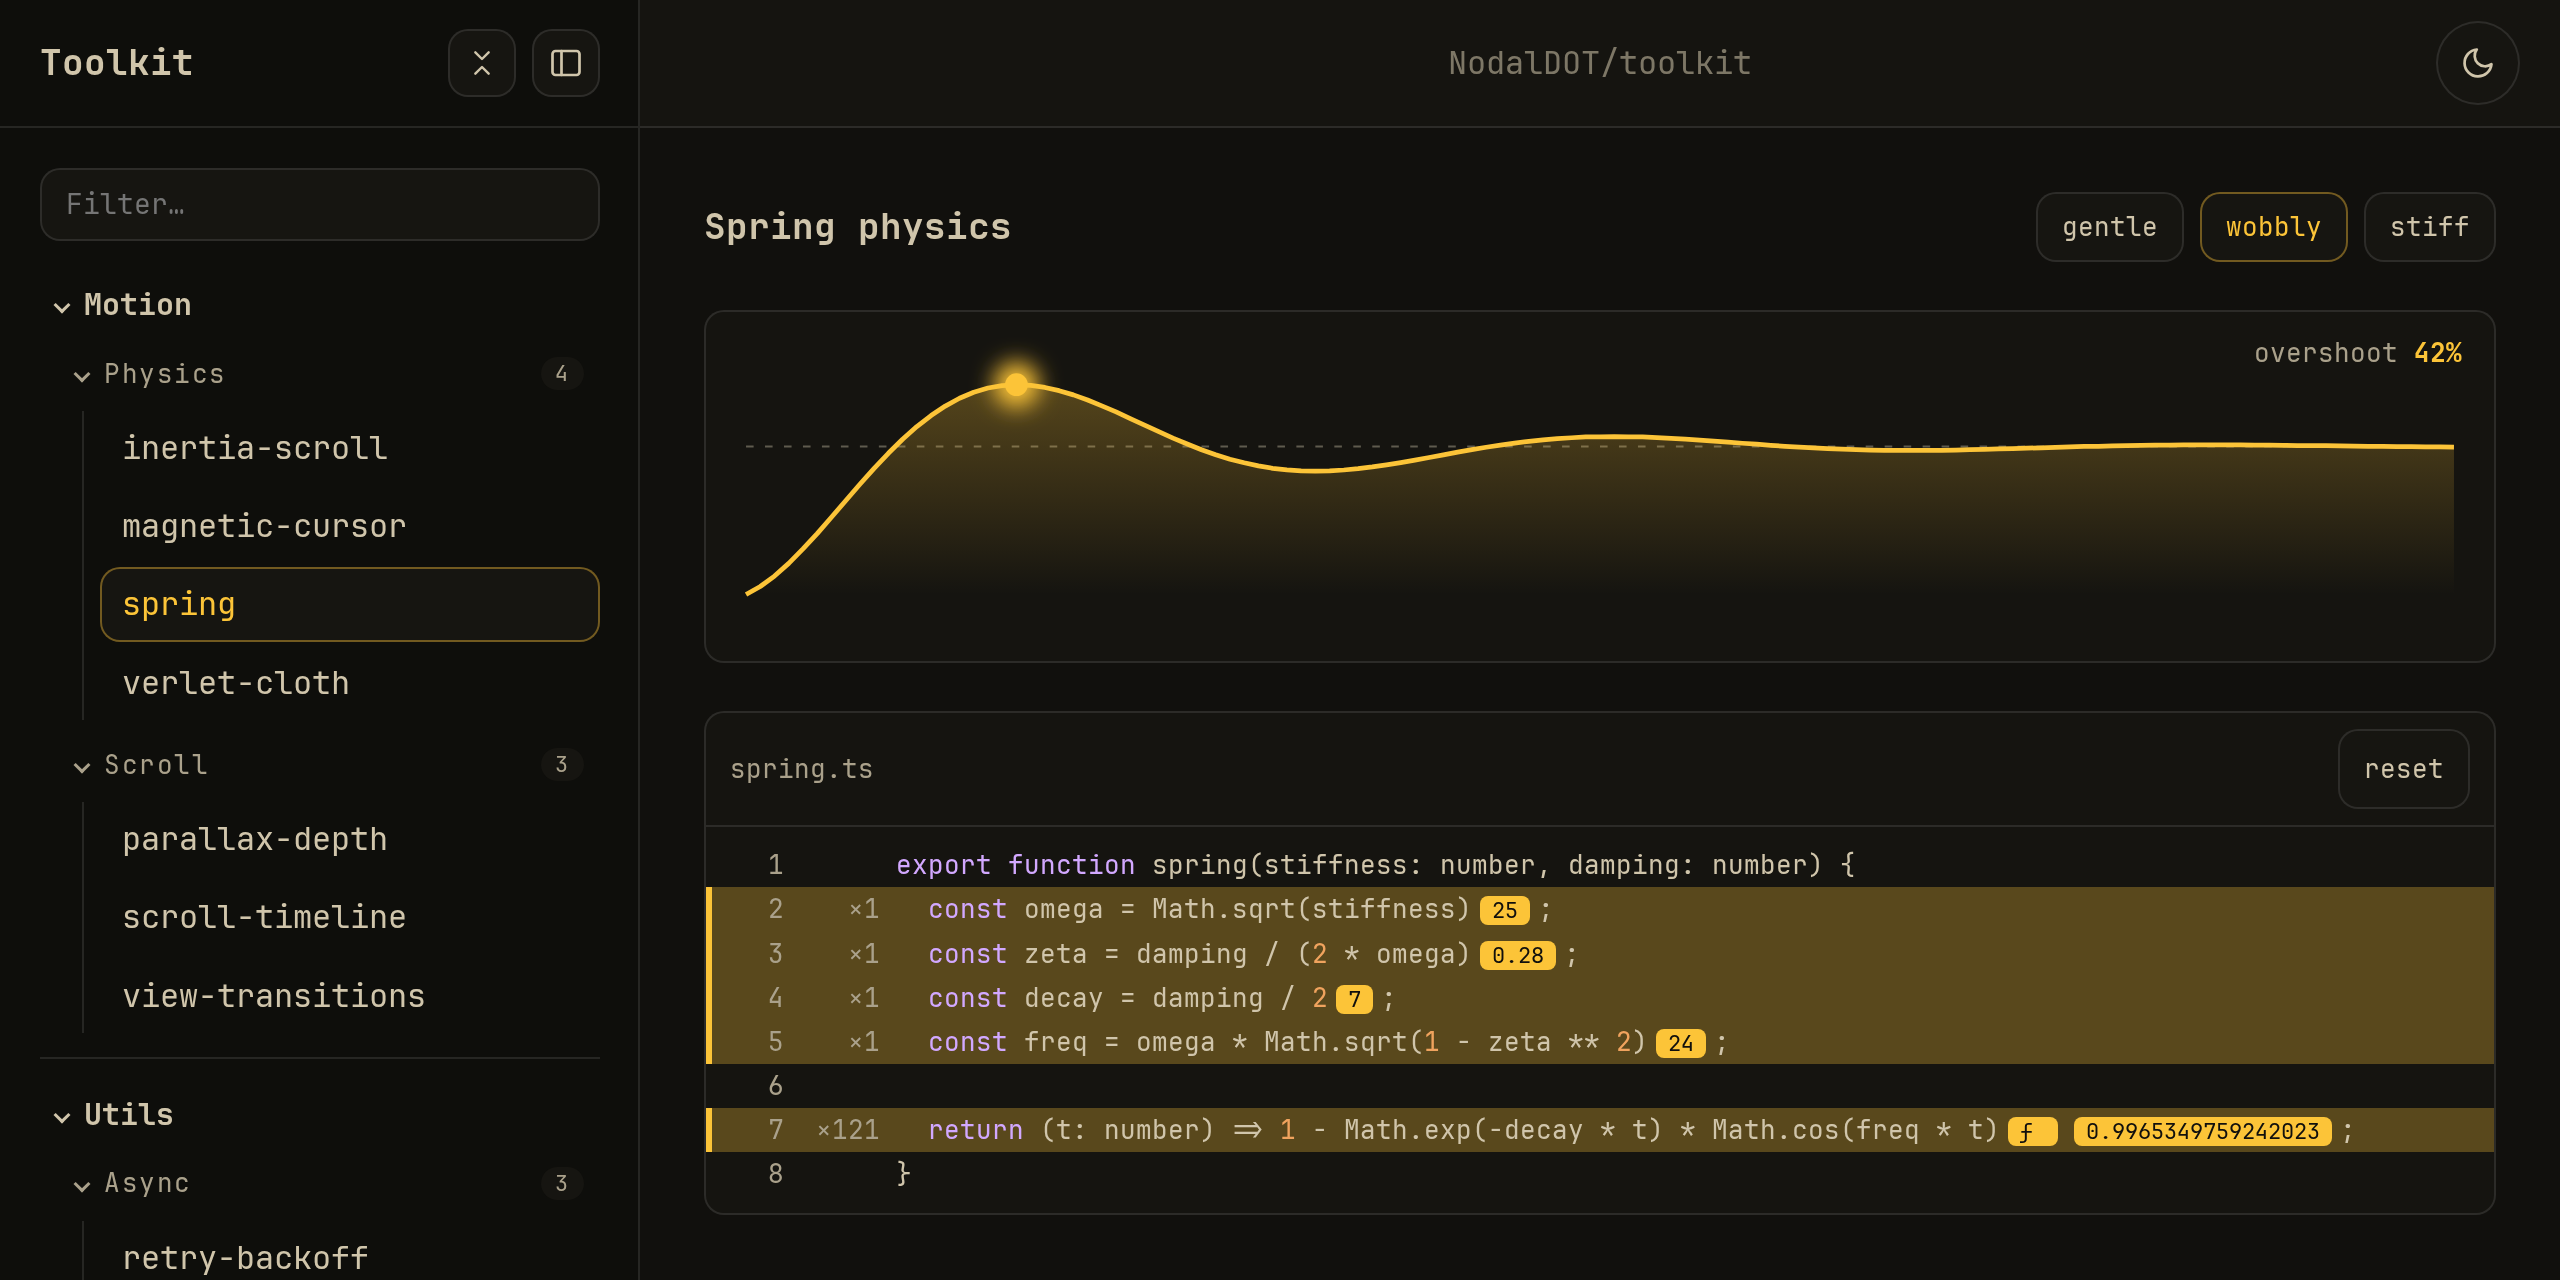
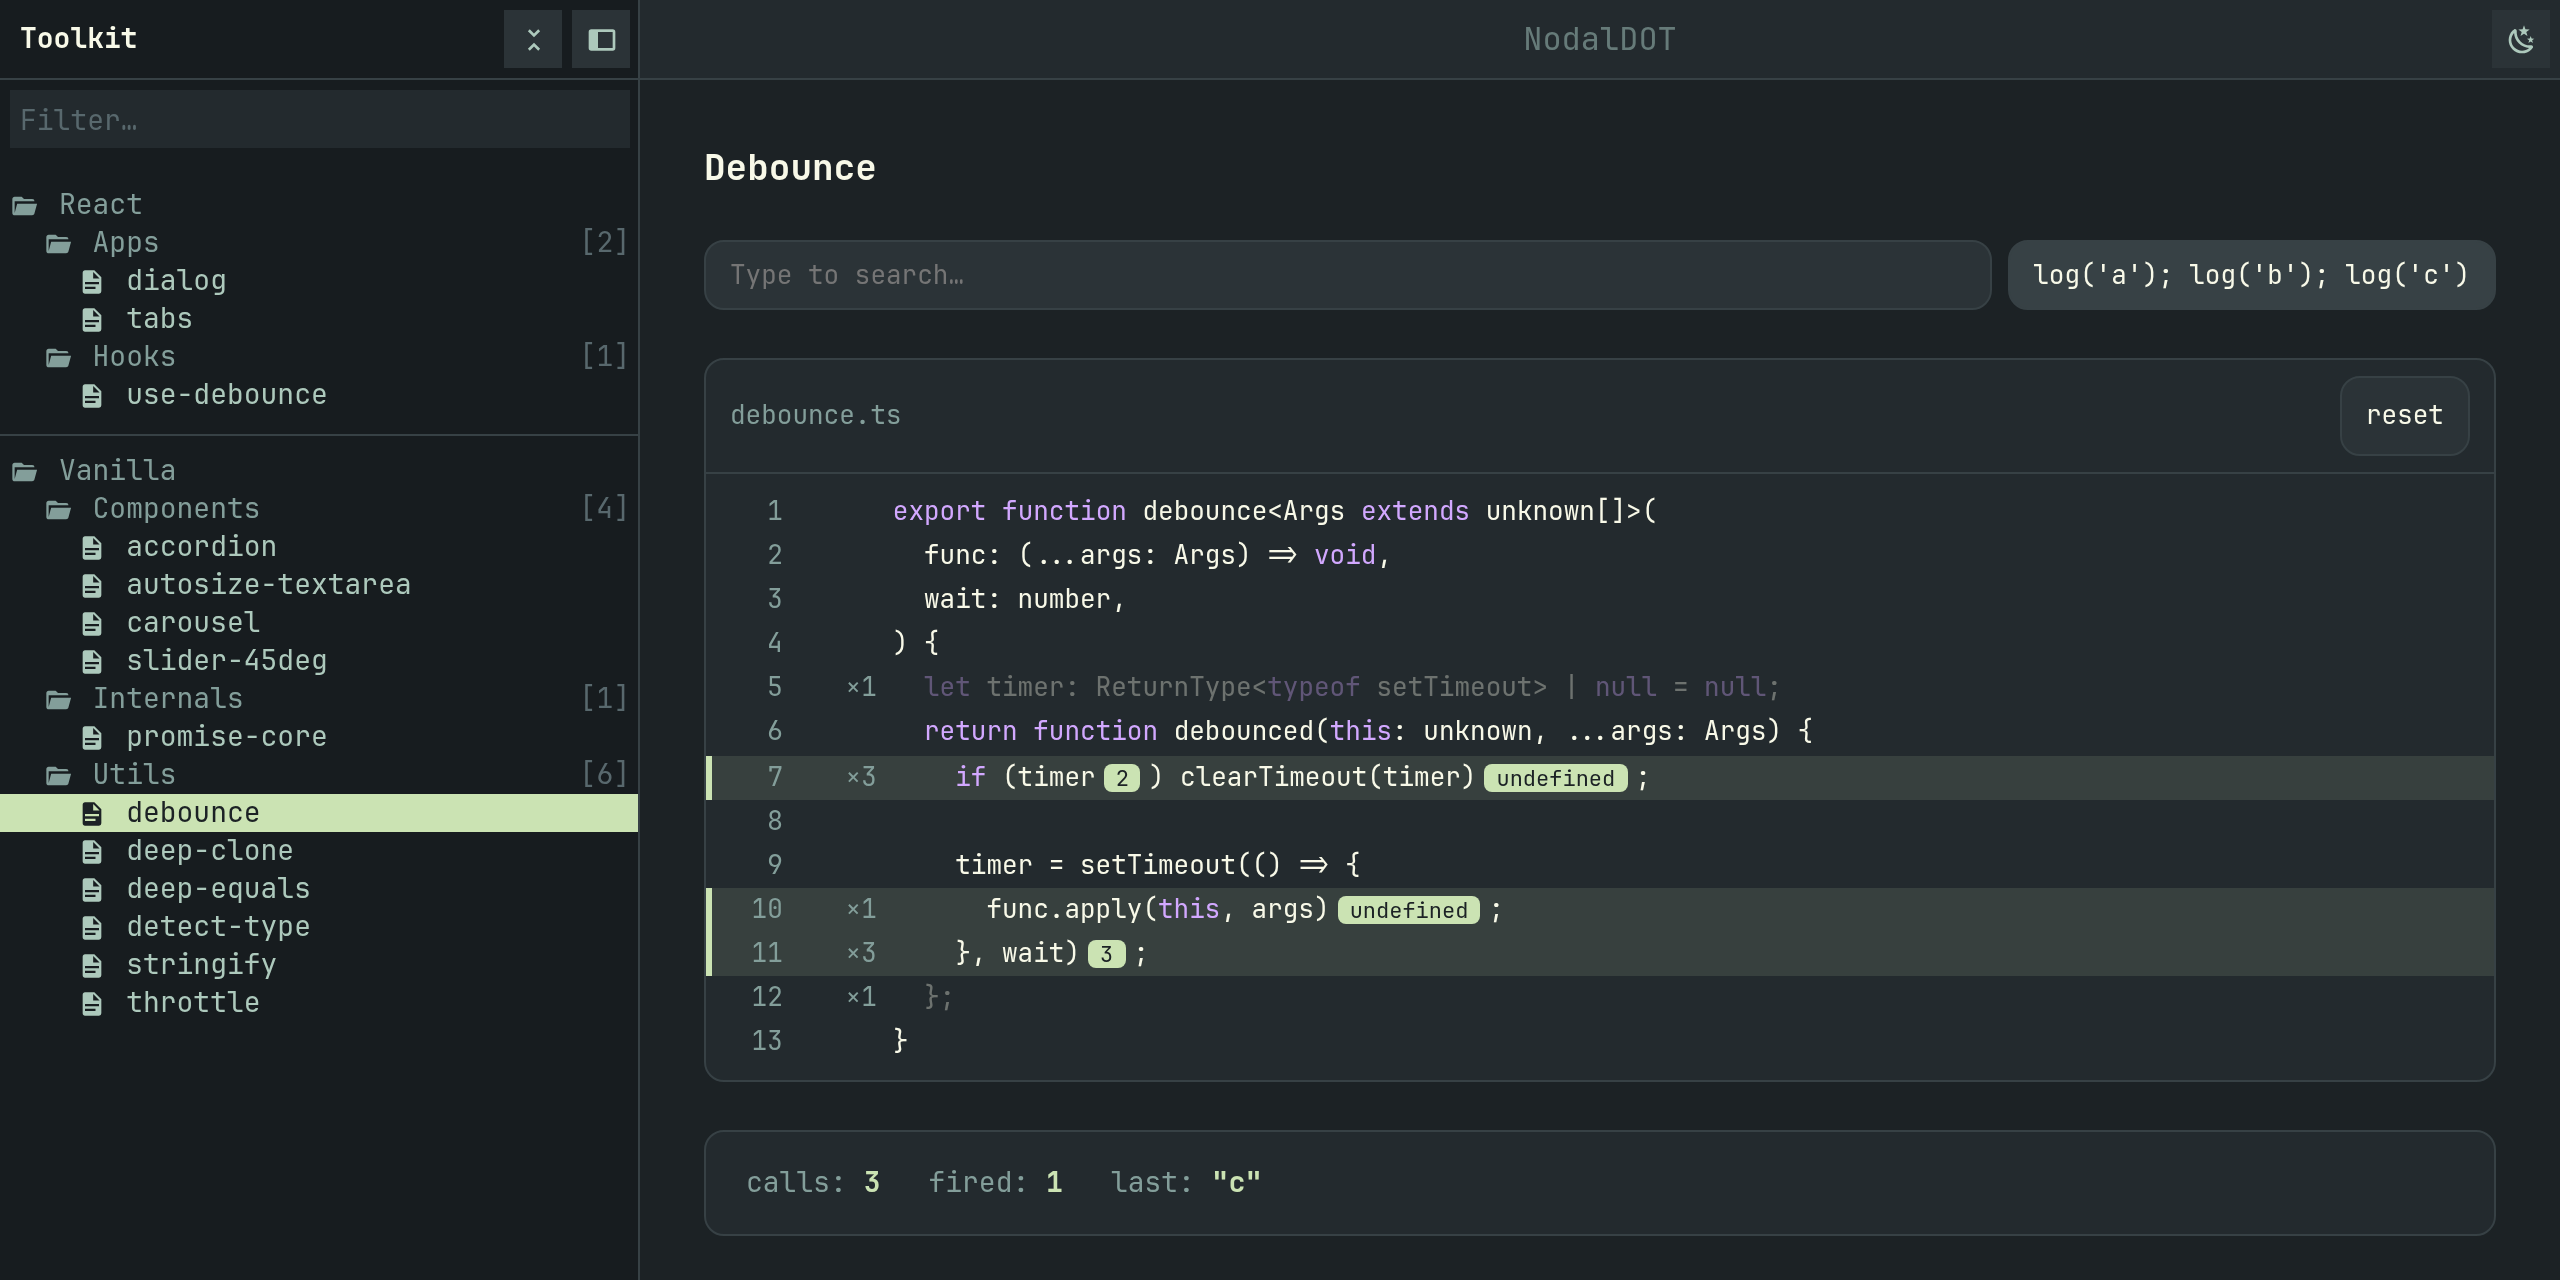
docs(readme): update social preview

diff --git a/README.md b/README.md
@@ -8,7 +8,7 @@ A place to collect small HTML, CSS, JavaScript and React examples and browse the
 
 ## Preview
 
-[![Toolkit showing a spring physics snippet with live values in the code trace](.github/social-preview.png)](https://nodaldot.github.io/toolkit/)
+[![Toolkit showing a debounce snippet with live values in the code trace](.github/social-preview.png)](https://nodaldot.github.io/toolkit/)
 
 Try it live: [nodaldot.github.io/toolkit](https://nodaldot.github.io/toolkit/)
 
